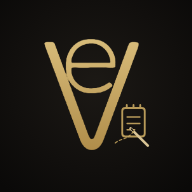
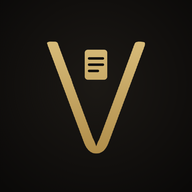
Icone Home uniformi (180/192/512 + maskable): stesso simbolo e grandezza di negozio/Studio/Notes, fondo scuro pieno, tratti originali sottili, nomi v3 e ?v=3, cache SW v7

Changed region(s): [[0.2188, 0.1875, 0.7812, 0.8125]]

diff --git a/privacy.html b/privacy.html
@@ -1,5 +1,5 @@
 <!DOCTYPE html><html lang="it"><head><meta charset="UTF-8"><meta name="viewport" content="width=device-width, initial-scale=1.0, viewport-fit=cover">
-<title>Privacy · Vaghezze Notes</title><meta name="theme-color" content="#0B1F3A"><link rel="icon" href="favicon.ico?v=3" sizes="16x16 32x32 48x48"><link rel="icon" type="image/png" sizes="16x16" href="favicon-v3-16.png?v=3"><link rel="icon" type="image/png" sizes="32x32" href="favicon-v3-32.png?v=3"><link rel="icon" type="image/png" sizes="48x48" href="favicon-v3-48.png?v=3"><link rel="apple-touch-icon" href="apple-touch-icon.png"><link rel="manifest" href="manifest.json"><link rel="stylesheet" href="legal.css"></head>
+<title>Privacy · Vaghezze Notes</title><meta name="theme-color" content="#0B1F3A"><link rel="icon" href="favicon.ico?v=3" sizes="16x16 32x32 48x48"><link rel="icon" type="image/png" sizes="16x16" href="favicon-v3-16.png?v=3"><link rel="icon" type="image/png" sizes="32x32" href="favicon-v3-32.png?v=3"><link rel="icon" type="image/png" sizes="48x48" href="favicon-v3-48.png?v=3"><link rel="apple-touch-icon" href="apple-touch-icon-v3.png?v=3"><link rel="manifest" href="manifest.json?v=3"><link rel="stylesheet" href="legal.css"></head>
 <body><main><a class="back" href="./">← Torna a Vaghezze Notes</a><h1>Privacy</h1><p>Titolare del trattamento: <strong>Pi.Gi Service</strong>, Via Guido Reni 8, 35133 Padova (PD), P.IVA 05770260288 — <a href="mailto:info@pigiservice.com">info@pigiservice.com</a>, PEC <a href="mailto:pigiservice@pec.it">pigiservice@pec.it</a>.</p>
 <h2>Quali dati usa l'app</h2><p>Idee, scelte e foto di ispirazione restano <strong>solo nel tuo browser</strong>, su questo dispositivo. Non vengono inviate a noi né ad altri. Se cancelli i dati del browser o disinstalli l'app, le idee si perdono: usa «Copia tutte le idee» per tenerne una copia.</p>
 <h2>Dove si trova l'app</h2><p>L'app è pubblicata su GitHub Pages (GitHub, Inc.). Come ogni sito, il server può registrare dati tecnici di accesso (per esempio l'indirizzo IP) per sicurezza e funzionamento, secondo la privacy di GitHub. Noi non usiamo strumenti di analisi né pubblicità.</p>

diff --git a/cookie.html b/cookie.html
@@ -1,5 +1,5 @@
 <!DOCTYPE html><html lang="it"><head><meta charset="UTF-8"><meta name="viewport" content="width=device-width, initial-scale=1.0, viewport-fit=cover">
-<title>Cookie · Vaghezze Notes</title><meta name="theme-color" content="#0B1F3A"><link rel="icon" href="favicon.ico?v=3" sizes="16x16 32x32 48x48"><link rel="icon" type="image/png" sizes="16x16" href="favicon-v3-16.png?v=3"><link rel="icon" type="image/png" sizes="32x32" href="favicon-v3-32.png?v=3"><link rel="icon" type="image/png" sizes="48x48" href="favicon-v3-48.png?v=3"><link rel="apple-touch-icon" href="apple-touch-icon.png"><link rel="manifest" href="manifest.json"><link rel="stylesheet" href="legal.css"></head>
+<title>Cookie · Vaghezze Notes</title><meta name="theme-color" content="#0B1F3A"><link rel="icon" href="favicon.ico?v=3" sizes="16x16 32x32 48x48"><link rel="icon" type="image/png" sizes="16x16" href="favicon-v3-16.png?v=3"><link rel="icon" type="image/png" sizes="32x32" href="favicon-v3-32.png?v=3"><link rel="icon" type="image/png" sizes="48x48" href="favicon-v3-48.png?v=3"><link rel="apple-touch-icon" href="apple-touch-icon-v3.png?v=3"><link rel="manifest" href="manifest.json?v=3"><link rel="stylesheet" href="legal.css"></head>
 <body><main><a class="back" href="./">← Torna a Vaghezze Notes</a><h1>Cookie</h1><p><strong>Questa app non usa cookie</strong>, né di profilazione né di analisi. Per questo non ti chiediamo il consenso.</p>
 <p>Usa solo la memoria del browser (localStorage e cache dell'app) per salvare i tuoi dati sul dispositivo e per funzionare senza rete. Sono strumenti tecnici necessari: puoi cancellarli quando vuoi dalle impostazioni del browser.</p><p class="muted">Ultimo aggiornamento: 11 ottobre 2026</p></main><footer><p class="brand-line"><strong>Vaghezze Notes</strong> · un'app di <a href="https://vaghezze.com">vaghezze.com</a></p>
     <p><strong>Pi.Gi Service</strong> · Via Guido Reni 8, 35133 Padova (PD) · P.IVA 05770260288</p>

diff --git a/termini.html b/termini.html
@@ -1,5 +1,5 @@
 <!DOCTYPE html><html lang="it"><head><meta charset="UTF-8"><meta name="viewport" content="width=device-width, initial-scale=1.0, viewport-fit=cover">
-<title>Termini di utilizzo · Vaghezze Notes</title><meta name="theme-color" content="#0B1F3A"><link rel="icon" href="favicon.ico?v=3" sizes="16x16 32x32 48x48"><link rel="icon" type="image/png" sizes="16x16" href="favicon-v3-16.png?v=3"><link rel="icon" type="image/png" sizes="32x32" href="favicon-v3-32.png?v=3"><link rel="icon" type="image/png" sizes="48x48" href="favicon-v3-48.png?v=3"><link rel="apple-touch-icon" href="apple-touch-icon.png"><link rel="manifest" href="manifest.json"><link rel="stylesheet" href="legal.css"></head>
+<title>Termini di utilizzo · Vaghezze Notes</title><meta name="theme-color" content="#0B1F3A"><link rel="icon" href="favicon.ico?v=3" sizes="16x16 32x32 48x48"><link rel="icon" type="image/png" sizes="16x16" href="favicon-v3-16.png?v=3"><link rel="icon" type="image/png" sizes="32x32" href="favicon-v3-32.png?v=3"><link rel="icon" type="image/png" sizes="48x48" href="favicon-v3-48.png?v=3"><link rel="apple-touch-icon" href="apple-touch-icon-v3.png?v=3"><link rel="manifest" href="manifest.json?v=3"><link rel="stylesheet" href="legal.css"></head>
 <body><main><a class="back" href="./">← Torna a Vaghezze Notes</a><h1>Termini di utilizzo</h1><p>Fornitore: <strong>Pi.Gi Service</strong>, Via Guido Reni 8, 35133 Padova (PD), P.IVA 05770260288.</p><p>Vaghezze Notes ti aiuta ad annotare idee di abbigliamento reworked, anche senza rete. È gratuita e non addebita nulla.</p>
 <p>Le idee sono salvate solo sul tuo dispositivo: non possiamo recuperarle se le cancelli. Sei responsabile dei contenuti e delle foto che carichi.</p>
 <h2>Servizio così com'è</h2><p>L'app è offerta così com'è, senza garanzia di funzionamento continuo. Possiamo aggiornarla o cambiarla.</p>

diff --git a/sw.js b/sw.js
@@ -1,10 +1,10 @@
 // Service worker Vaghezze Notes: app disponibile anche senza rete.
 // Cambia CACHE a ogni nuova versione: la vecchia cache viene cancellata.
-const CACHE = 'vaghezze-notes-v6';
+const CACHE = 'vaghezze-notes-v7';
 const ASSETS = [
   './', './index.html', './styles.css', './app.js', './install.js', './install.css', './nav.js', './nav.css', './manifest.json',
-  './icon.svg', './favicon.ico', './favicon-v3-16.png', './favicon-v3-32.png', './favicon-v3-48.png', './icon-192.png', './icon-512.png', './icon-maskable-192.png', './icon-maskable-512.png',
-  './apple-touch-icon.png', './privacy.html', './termini.html', './cookie.html', './legal.css'
+  './icon.svg', './favicon.ico', './favicon-v3-16.png', './favicon-v3-32.png', './favicon-v3-48.png', './icon-v3-192.png', './icon-v3-512.png', './icon-v3-maskable-192.png', './icon-v3-maskable-512.png',
+  './apple-touch-icon-v3.png', './privacy.html', './termini.html', './cookie.html', './legal.css'
 ];
 
 self.addEventListener('install', (event) => {

diff --git a/index.html b/index.html
@@ -11,12 +11,12 @@
   <meta name="apple-mobile-web-app-title" content="Vaghezze Notes">
   <meta name="apple-mobile-web-app-status-bar-style" content="black-translucent">
   <meta name="theme-color" content="#0B1F3A">
-  <link rel="manifest" href="manifest.json">
+  <link rel="manifest" href="manifest.json?v=3">
   <link rel="icon" href="favicon.ico?v=3" sizes="16x16 32x32 48x48">
   <link rel="icon" type="image/png" sizes="16x16" href="favicon-v3-16.png?v=3">
   <link rel="icon" type="image/png" sizes="32x32" href="favicon-v3-32.png?v=3">
   <link rel="icon" type="image/png" sizes="48x48" href="favicon-v3-48.png?v=3">
-  <link rel="apple-touch-icon" href="apple-touch-icon.png">
+  <link rel="apple-touch-icon" href="apple-touch-icon-v3.png?v=3">
   <link rel="stylesheet" href="styles.css">
   <link rel="stylesheet" href="install.css">
   <link rel="stylesheet" href="nav.css">
